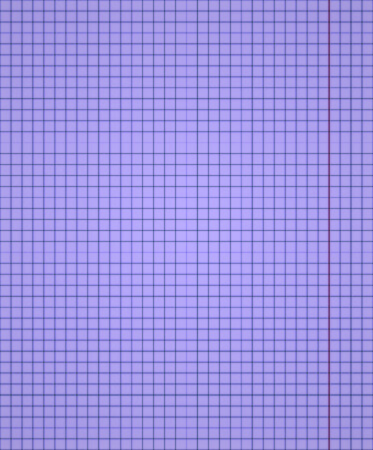
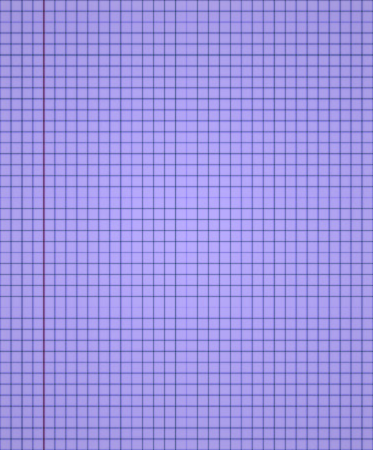
kids background mirrored

diff --git a/js/obstacle.js b/js/obstacle.js
@@ -9,8 +9,8 @@ class Obstacle {
         Math.floor(Math.random() * this.possibleLeftPositions.length)
       ];
     this.top = -300;
-    this.width = 130;
-    this.height = 240;
+    this.width = 100;
+    this.height = 180;
 
     // this is all for the img tag of our player
     this.element = document.createElement("img");
